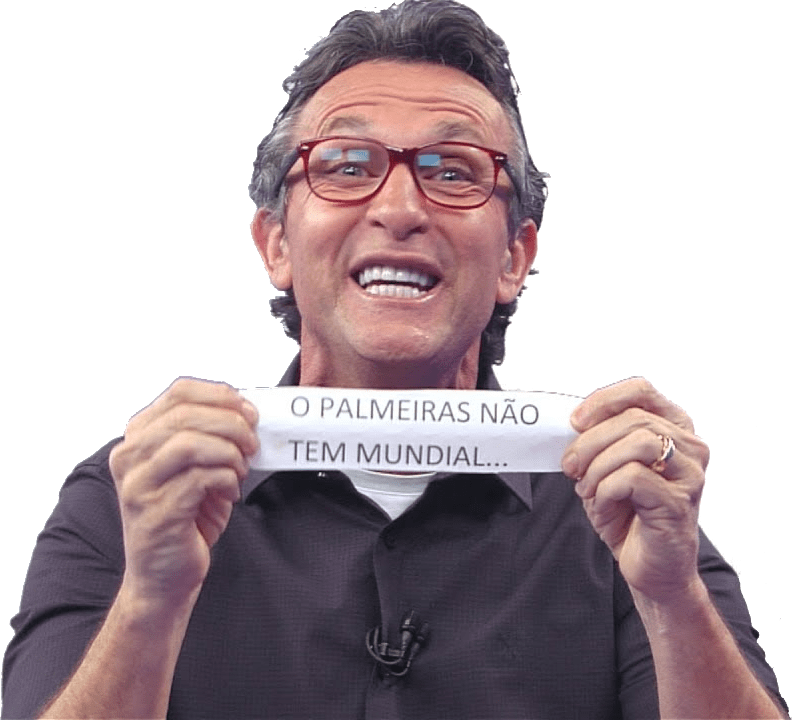
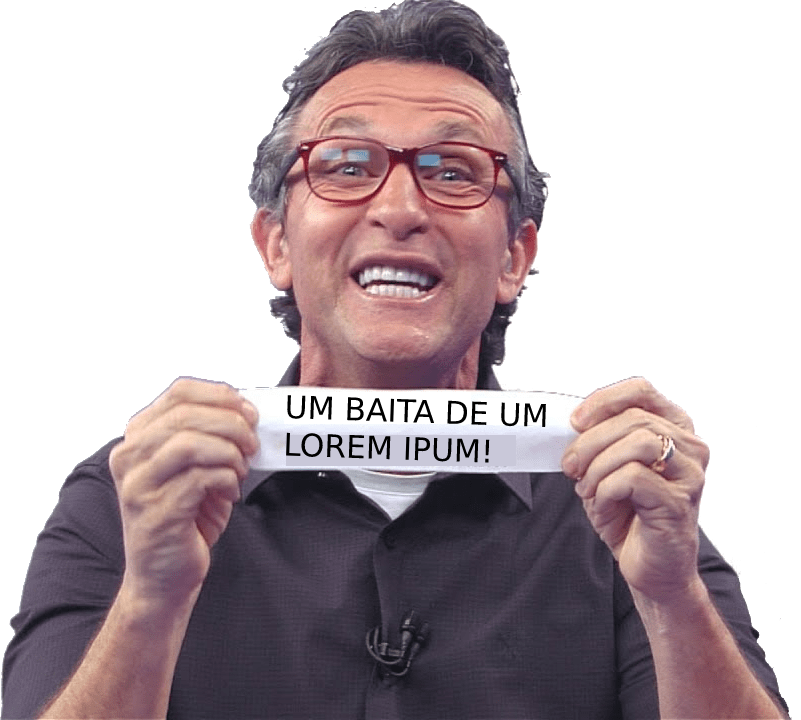
update imagem

Changed region(s): [[0.3433, 0.55, 0.6866, 0.6722]]

diff --git a/index.html b/index.html
@@ -59,14 +59,14 @@
                 <p>Tomara que o Craque Neto não me processe.</p>
             </div>
             <div class="about__grid mx-6 df-12">
-                <img src="assets/img/neto-palmeiras-sem-mundial.png" alt="">
+                <img src="assets/img/neto-com-papel.png" alt="Um baita de um Lorem Ipsum, diga-se de passagem!">
             </div>
         </div>
     </section>
     <footer class="footer">
         <div class="container">
             <p>
-                © Copyright 2022. Desenvolvido por <a href="https://github.com/jonathanafranio/">Jonathan Afranio</a>. Todos os direitos reservados.
+                © Copyright 2022. Desenvolvido por <a href="https://github.com/jonathanafranio/cv">Jonathan Afranio</a>. Todos os direitos reservados.
             </p>
         </div>
     </footer>
